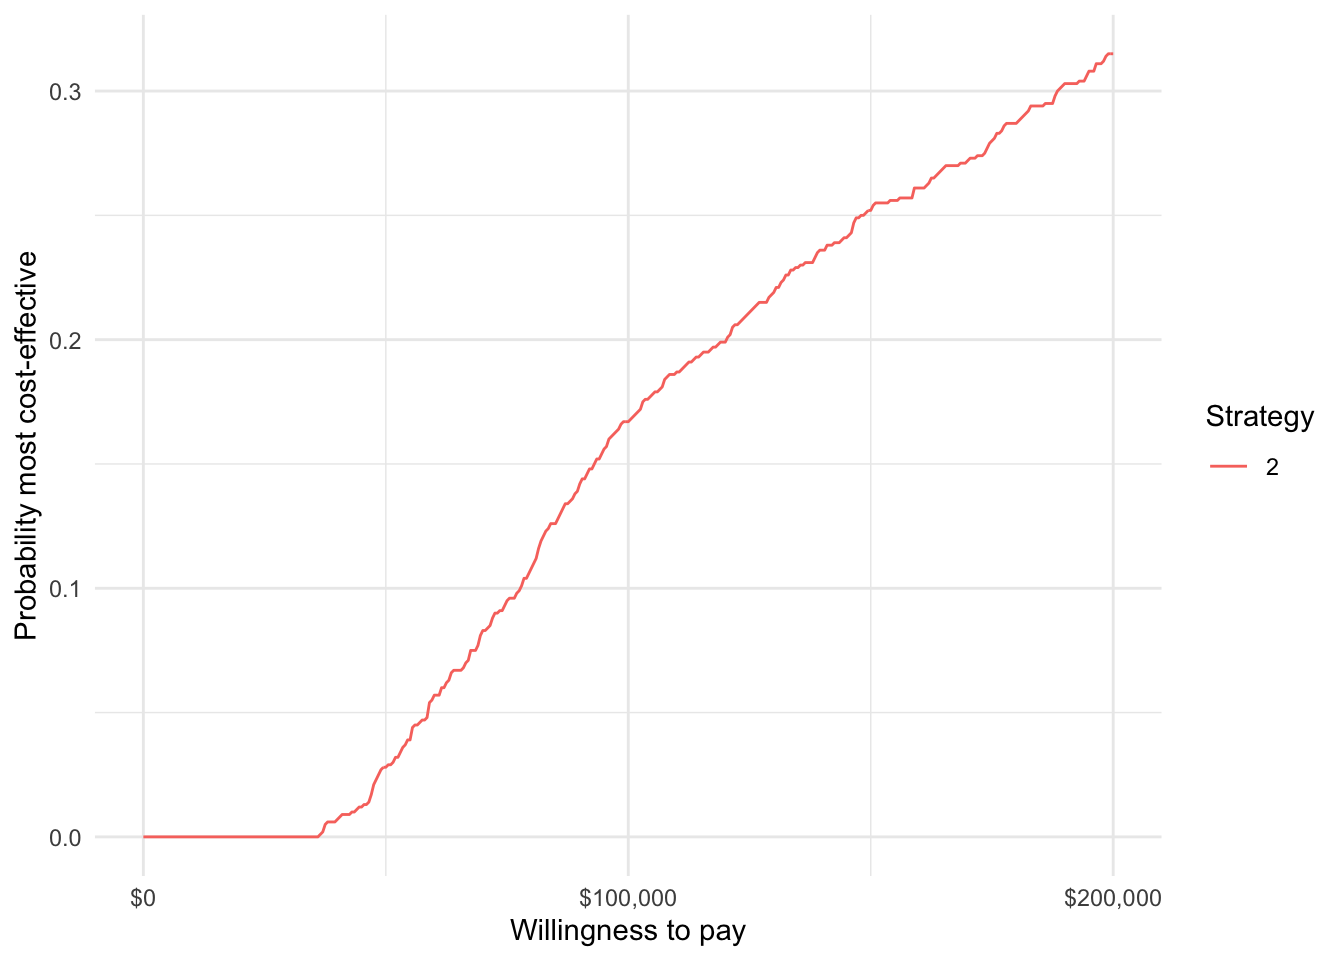
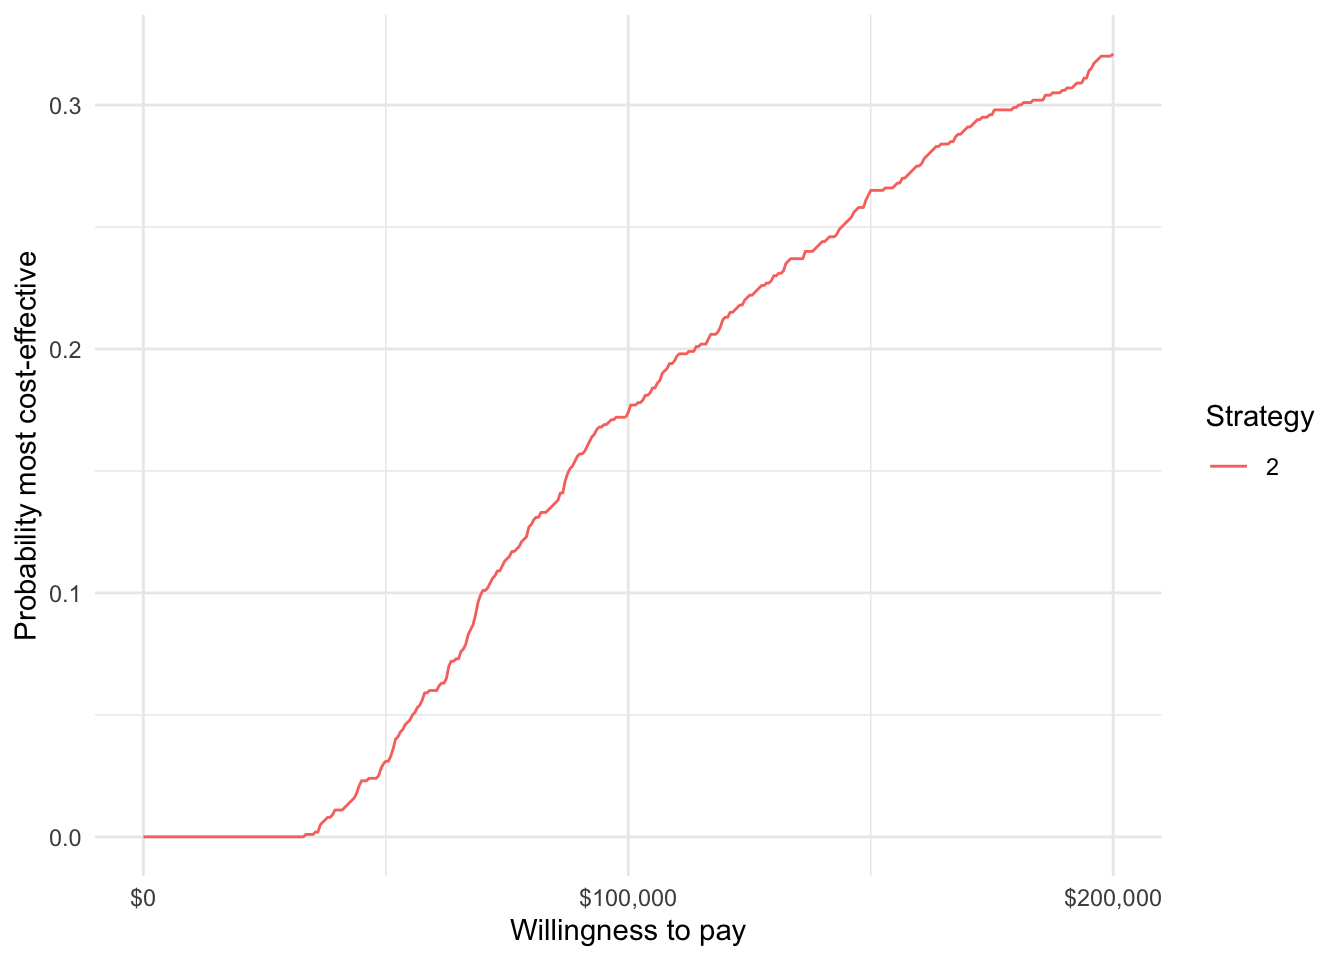
Update intro vignette

diff --git a/docs/dev/articles/intro.html b/docs/dev/articles/intro.html
@@ -107,7 +107,7 @@
       <h1>Introduction to <code>hesim</code>
 </h1>
             
-            <h4 class="date">2020-03-18</h4>
+            <h4 class="date">2020-04-02</h4>
       
       <small class="dont-index">Source: <a href="https://github.com/hesim-dev/hesim/blob/master/vignettes/intro.Rmd"><code>vignettes/intro.Rmd</code></a></small>
       <div class="hidden name"><code>intro.Rmd</code></div>
@@ -199,17 +199,17 @@ Individual-level continuous time state transition model (iCTSTM)
 ## 
 ## $patients
 ##       patient_id      age female
-##    1:          1 42.71132      0
-##    2:          2 43.34381      0
-##    3:          3 30.05943      0
-##    4:          4 42.62731      1
-##    5:          5 47.59256      0
+##    1:          1 46.22325      0
+##    2:          2 47.56791      1
+##    3:          3 51.56510      1
+##    4:          4 38.90358      0
+##    5:          5 60.13536      1
 ##   ---                           
-##  996:        996 45.53655      1
-##  997:        997 44.73630      1
-##  998:        998 42.56618      0
-##  999:        999 44.61603      0
-## 1000:       1000 46.10505      1
+##  996:        996 47.57499      1
+##  997:        997 53.09606      0
+##  998:        998 59.24884      1
+##  999:        999 47.49083      0
+## 1000:       1000 53.92991      1
 ## 
 ## $states
 ##    state_id state_name
@@ -346,7 +346,7 @@ Model fit object
 </tr></thead>
 <tbody>
 <tr>
-<td style="text-align:left;">
+<td style="text-align:left;vertical-align: top !important;" rowspan="2">
 Predicted means
 </td>
 <td style="text-align:left;">
@@ -354,6 +354,14 @@ Predicted means
 </td>
 <td style="text-align:left;">
 <code><a href="../reference/stateval_tbl.html">hesim::stateval_tbl</a></code>
+</td>
+</tr>
+<tr>
+<td style="text-align:left;">
+<code><a href="../reference/tparams_mean.html">hesim::tparams_mean</a></code>
+</td>
+<td style="text-align:left;">
+<code><a href="../reference/define_model.html">hesim::define_model()</a></code>
 </td>
 </tr>
 <tr>
@@ -369,7 +377,7 @@ Linear model
 </tr>
 </tbody>
 </table>
-<p>Linear models are fit using <code><a href="https://www.rdocumentation.org/packages/stats/topics/lm">stats::lm()</a></code>. Predicted means are most easily constructed from a <code><a href="../reference/stateval_tbl.html">hesim::stateval_tbl</a></code> object, which is a special object used to assign values to health states. The table allows users to specify mean values that can vary across health states, treatment strategies, patients, and/or time intervals. State values can be specified either as moments (i.e., mean and standard error) or parameters (e.g., shape and scale of gamma distribution) of a probability distribution, or by pre-simulating values from a suitable probability distribution. Here we will use <code><a href="../reference/stateval_tbl.html">hesim::stateval_tbl</a></code> objects for utility and two cost categories (drug and medical).</p>
+<p>Linear models are fit using <code><a href="https://www.rdocumentation.org/packages/stats/topics/lm">stats::lm()</a></code>. Predicted means can be constructed from a <code><a href="../reference/stateval_tbl.html">hesim::stateval_tbl</a></code> object or as a part of a model defined in term of mathematical expressions with <code><a href="../reference/define_model.html">define_model()</a></code>. The former is a special object used to assign values to health states that can vary across treatment strategies, patients, and/or time intervals. State values can be specified either as moments (i.e., mean and standard error) or parameters (e.g., shape and scale of gamma distribution) of a probability distribution, or by pre-simulating values from a suitable probability distribution. Here we will use <code><a href="../reference/stateval_tbl.html">hesim::stateval_tbl</a></code> objects for utility and two cost categories (drug and medical).</p>
 <div class="sourceCode" id="cb4"><pre class="sourceCode r"><code class="sourceCode r"><span id="cb4-1"><a href="#cb4-1"></a><span class="co"># Utility</span></span>
 <span id="cb4-2"><a href="#cb4-2"></a>utility_tbl &lt;-<span class="st"> </span><span class="kw"><a href="../reference/stateval_tbl.html">stateval_tbl</a></span>(<span class="kw"><a href="https://Rdatatable.gitlab.io/data.table/reference/data.table.html">data.table</a></span>(<span class="dt">state_id =</span> states<span class="op">$</span>state_id,</span>
 <span id="cb4-3"><a href="#cb4-3"></a>                                       <span class="dt">mean =</span> mstate3_exdata<span class="op">$</span>utility<span class="op">$</span>mean,</span>
@@ -395,7 +403,7 @@ Linear model
 <div id="constructing-an-economic-model" class="section level2">
 <h2 class="hasAnchor">
 <a href="#constructing-an-economic-model" class="anchor"></a><span class="header-section-number">4.1</span> Constructing an economic model</h2>
-<p>An economic model consists of a disease model, a utility model, and a set of cost models for each cost category. The utility and cost models are always <code><a href="../reference/StateVals.html">hesim::StateVals</a></code> objects, whereas the disease models vary by economic model. The disease model is used to simulate survival curves in a Psm and health state transitions in a cDTSTM and iCTSTM.</p>
+<p>An economic model consists of a disease model, a utility model, and a set of cost models for each cost category. The utility and cost models are always <code><a href="../reference/StateVals.html">hesim::StateVals</a></code> objects, whereas the disease models vary by economic model. The disease model is used to simulate survival curves in a PSM and health state transitions in a cDTSTM and iCTSTM.</p>
 <table class="table table">
 <thead><tr>
 <th style="text-align:left;">
@@ -467,12 +475,12 @@ Cost model(s)
 <span id="cb6-2"><a href="#cb6-2"></a>                        <span class="dt">by =</span> <span class="kw"><a href="https://www.rdocumentation.org/packages/base/topics/c">c</a></span>(<span class="st">"strategies"</span>, <span class="st">"patients"</span>, <span class="st">"transitions"</span>))</span>
 <span id="cb6-3"><a href="#cb6-3"></a><span class="kw"><a href="https://www.rdocumentation.org/packages/utils/topics/head">head</a></span>(transmod_data)</span></code></pre></div>
 <pre><code>##    strategy_id patient_id transition_id      age female from to from_name
-## 1:           1          1             1 42.71132      0    1  2   Healthy
-## 2:           1          1             2 42.71132      0    1  3   Healthy
-## 3:           1          1             3 42.71132      0    2  1      Sick
-## 4:           1          1             4 42.71132      0    2  3      Sick
-## 5:           1          2             1 43.34381      0    1  2   Healthy
-## 6:           1          2             2 43.34381      0    1  3   Healthy
+## 1:           1          1             1 46.22325      0    1  2   Healthy
+## 2:           1          1             2 46.22325      0    1  3   Healthy
+## 3:           1          1             3 46.22325      0    2  1      Sick
+## 4:           1          1             4 46.22325      0    2  3      Sick
+## 5:           1          2             1 47.56791      1    1  2   Healthy
+## 6:           1          2             2 47.56791      1    1  3   Healthy
 ##    to_name trans
 ## 1:    Sick     1
 ## 2:    Dead     2
@@ -580,43 +588,43 @@ $sim_costs()
 <div class="sourceCode" id="cb14"><pre class="sourceCode r"><code class="sourceCode r"><span id="cb14-1"><a href="#cb14-1"></a>ictstm<span class="op">$</span><span class="kw">sim_disease</span>()</span>
 <span id="cb14-2"><a href="#cb14-2"></a><span class="kw"><a href="https://www.rdocumentation.org/packages/utils/topics/head">head</a></span>(ictstm<span class="op">$</span>disprog_)</span></code></pre></div>
 <pre><code>##    sample strategy_id patient_id grp_id from to final time_start time_stop
-## 1:      1           1          1      1    1  2     0   0.000000  1.037285
-## 2:      1           1          1      1    2  1     0   1.037285  1.355420
-## 3:      1           1          1      1    1  3     1   1.355420  7.498336
-## 4:      1           1          2      1    1  2     0   0.000000  7.438108
-## 5:      1           1          2      1    2  1     0   7.438108  8.389836
-## 6:      1           1          2      1    1  2     0   8.389836 10.152969</code></pre>
+## 1:      1           1          1      1    1  2     0   0.000000  3.443347
+## 2:      1           1          1      1    2  1     0   3.443347  4.855666
+## 3:      1           1          1      1    1  3     1   4.855666 24.801224
+## 4:      1           1          2      1    1  2     0   0.000000  1.032929
+## 5:      1           1          2      1    2  1     0   1.032929  2.937666
+## 6:      1           1          2      1    1  2     0   2.937666  3.513879</code></pre>
 <p>The disease trajectory can be summarized with <code>$sim_stateprobs()</code>.</p>
 <div class="sourceCode" id="cb16"><pre class="sourceCode r"><code class="sourceCode r"><span id="cb16-1"><a href="#cb16-1"></a>ictstm<span class="op">$</span><span class="kw">sim_stateprobs</span>(<span class="dt">t =</span> <span class="kw"><a href="https://www.rdocumentation.org/packages/base/topics/c">c</a></span>(<span class="dv">0</span><span class="op">:</span><span class="dv">10</span>))</span>
 <span id="cb16-2"><a href="#cb16-2"></a><span class="kw"><a href="https://www.rdocumentation.org/packages/utils/topics/head">head</a></span>(ictstm<span class="op">$</span>stateprobs_)</span></code></pre></div>
 <pre><code>##    sample strategy_id grp_id state_id t  prob
 ## 1:      1           1      1        1 0 1.000
-## 2:      1           1      1        1 1 0.870
-## 3:      1           1      1        1 2 0.777
-## 4:      1           1      1        1 3 0.690
-## 5:      1           1      1        1 4 0.650
-## 6:      1           1      1        1 5 0.598</code></pre>
+## 2:      1           1      1        1 1 0.882
+## 3:      1           1      1        1 2 0.806
+## 4:      1           1      1        1 3 0.726
+## 5:      1           1      1        1 4 0.685
+## 6:      1           1      1        1 5 0.635</code></pre>
 <p>We can then compute costs and QALYs (using a discount rate of 3 percent).</p>
 <div class="sourceCode" id="cb18"><pre class="sourceCode r"><code class="sourceCode r"><span id="cb18-1"><a href="#cb18-1"></a><span class="co"># QALYs</span></span>
 <span id="cb18-2"><a href="#cb18-2"></a>ictstm<span class="op">$</span><span class="kw"><a href="../reference/sim_ev.html">sim_qalys</a></span>(<span class="dt">dr =</span> <span class="fl">.03</span>)</span>
 <span id="cb18-3"><a href="#cb18-3"></a><span class="kw"><a href="https://www.rdocumentation.org/packages/utils/topics/head">head</a></span>(ictstm<span class="op">$</span>qalys_)</span></code></pre></div>
-<pre><code>##    sample strategy_id grp_id state_id   dr    qalys       lys
-## 1:      1           1      1        1 0.03 2.446838  8.660739
-## 2:      1           1      1        2 0.03 1.637749  1.637770
-## 3:      1           2      1        1 0.03 2.980451 10.549498
-## 4:      1           2      1        2 0.03 1.282044  1.282060
-## 5:      2           1      1        1 0.03 6.946665  9.062082
-## 6:      2           1      1        2 0.03 1.710225  1.827004</code></pre>
+<pre><code>##    sample strategy_id grp_id state_id   dr    qalys      lys
+## 1:      1           1      1        1 0.03 5.317878 9.768328
+## 2:      1           1      1        2 0.03 1.710061 1.895121
+## 3:      1           2      1        1 0.03 5.204064 9.559265
+## 4:      1           2      1        2 0.03 1.481988 1.642367
+## 5:      2           1      1        1 0.03 4.959602 8.614281
+## 6:      2           1      1        2 0.03 1.449493 1.591457</code></pre>
 <div class="sourceCode" id="cb20"><pre class="sourceCode r"><code class="sourceCode r"><span id="cb20-1"><a href="#cb20-1"></a><span class="co"># Costs</span></span>
 <span id="cb20-2"><a href="#cb20-2"></a>ictstm<span class="op">$</span><span class="kw"><a href="../reference/sim_ev.html">sim_costs</a></span>(<span class="dt">dr =</span> <span class="fl">.03</span>)</span>
 <span id="cb20-3"><a href="#cb20-3"></a><span class="kw"><a href="https://www.rdocumentation.org/packages/utils/topics/head">head</a></span>(ictstm<span class="op">$</span>costs_)</span></code></pre></div>
-<pre><code>##    sample strategy_id grp_id state_id   dr category      costs
-## 1:      1           1      1        1 0.03    drugs  43303.697
-## 2:      1           1      1        2 0.03    drugs   8188.849
-## 3:      1           2      1        1 0.03    drugs 105494.980
-## 4:      1           2      1        2 0.03    drugs  12820.600
-## 5:      2           1      1        1 0.03    drugs  45310.409
-## 6:      2           1      1        2 0.03    drugs   9135.018</code></pre>
+<pre><code>##    sample strategy_id grp_id state_id   dr category     costs
+## 1:      1           1      1        1 0.03    drugs 48841.641
+## 2:      1           1      1        2 0.03    drugs  9475.607
+## 3:      1           2      1        1 0.03    drugs 95592.650
+## 4:      1           2      1        2 0.03    drugs 16423.671
+## 5:      2           1      1        1 0.03    drugs 43071.405
+## 6:      2           1      1        2 0.03    drugs  7957.286</code></pre>
 </div>
 </div>
 <div id="decision-analysis" class="section level1">
@@ -628,31 +636,31 @@ $sim_costs()
 <span id="cb22-2"><a href="#cb22-2"></a><span class="kw"><a href="https://www.rdocumentation.org/packages/base/topics/print">print</a></span>(ce)</span></code></pre></div>
 <pre><code>## $costs
 ##       category   dr sample strategy_id     costs grp_id
-##    1:    drugs 0.03      1           1  51492.55      1
-##    2:    drugs 0.03      1           2 118315.58      1
-##    3:    drugs 0.03      2           1  54445.43      1
-##    4:    drugs 0.03      2           2 103011.29      1
-##    5:    drugs 0.03      3           1  50871.46      1
+##    1:    drugs 0.03      1           1  58317.25      1
+##    2:    drugs 0.03      1           2 112016.32      1
+##    3:    drugs 0.03      2           1  51028.69      1
+##    4:    drugs 0.03      2           2 110779.93      1
+##    5:    drugs 0.03      3           1  56048.45      1
 ##   ---                                                  
-## 5996:    total 0.03    998           2 126999.82      1
-## 5997:    total 0.03    999           1  75237.87      1
-## 5998:    total 0.03    999           2 124171.68      1
-## 5999:    total 0.03   1000           1  58110.73      1
-## 6000:    total 0.03   1000           2 109932.02      1
+## 5996:    total 0.03    998           2 125802.43      1
+## 5997:    total 0.03    999           1  53606.46      1
+## 5998:    total 0.03    999           2 118616.41      1
+## 5999:    total 0.03   1000           1  65939.37      1
+## 6000:    total 0.03   1000           2 122070.51      1
 ## 
 ## $qalys
 ##         dr sample strategy_id    qalys grp_id
-##    1: 0.03      1           1 4.084587      1
-##    2: 0.03      1           2 4.262495      1
-##    3: 0.03      2           1 8.656890      1
-##    4: 0.03      2           2 8.089863      1
-##    5: 0.03      3           1 5.720848      1
+##    1: 0.03      1           1 7.027939      1
+##    2: 0.03      1           2 6.686052      1
+##    3: 0.03      2           1 6.409095      1
+##    4: 0.03      2           2 6.793646      1
+##    5: 0.03      3           1 8.811284      1
 ##   ---                                        
-## 1996: 0.03    998           2 7.050979      1
-## 1997: 0.03    999           1 6.004064      1
-## 1998: 0.03    999           2 5.444412      1
-## 1999: 0.03   1000           1 7.055677      1
-## 2000: 0.03   1000           2 7.271639      1
+## 1996: 0.03    998           2 5.092708      1
+## 1997: 0.03    999           1 7.500993      1
+## 1998: 0.03    999           2 9.177599      1
+## 1999: 0.03   1000           1 8.090693      1
+## 2000: 0.03   1000           2 8.228368      1
 ## 
 ## attr(,"class")
 ## [1] "ce"</code></pre>
